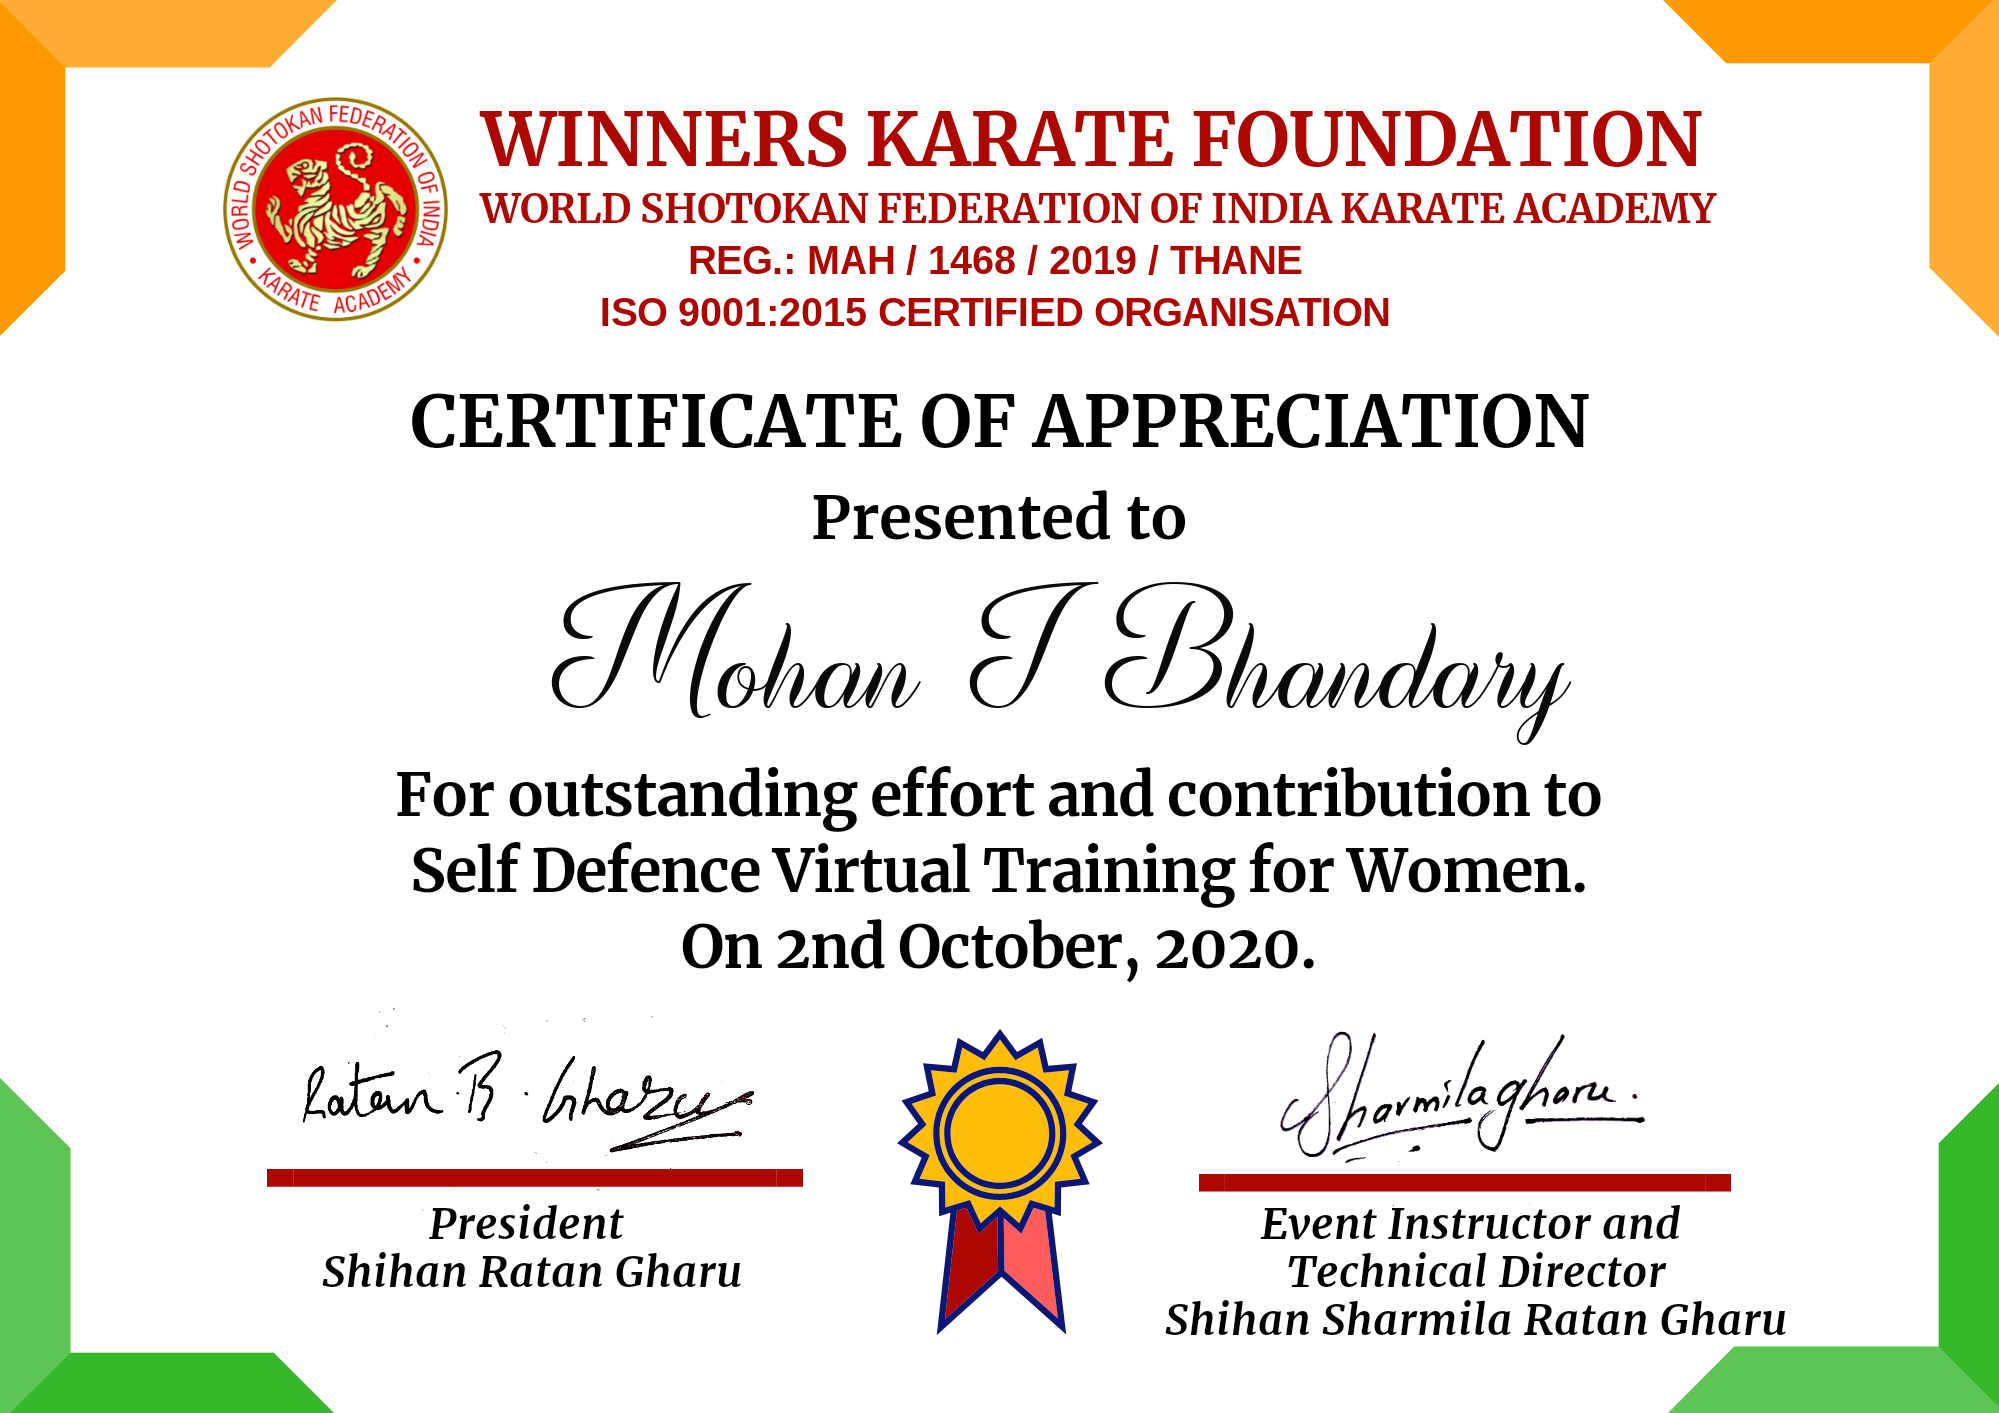
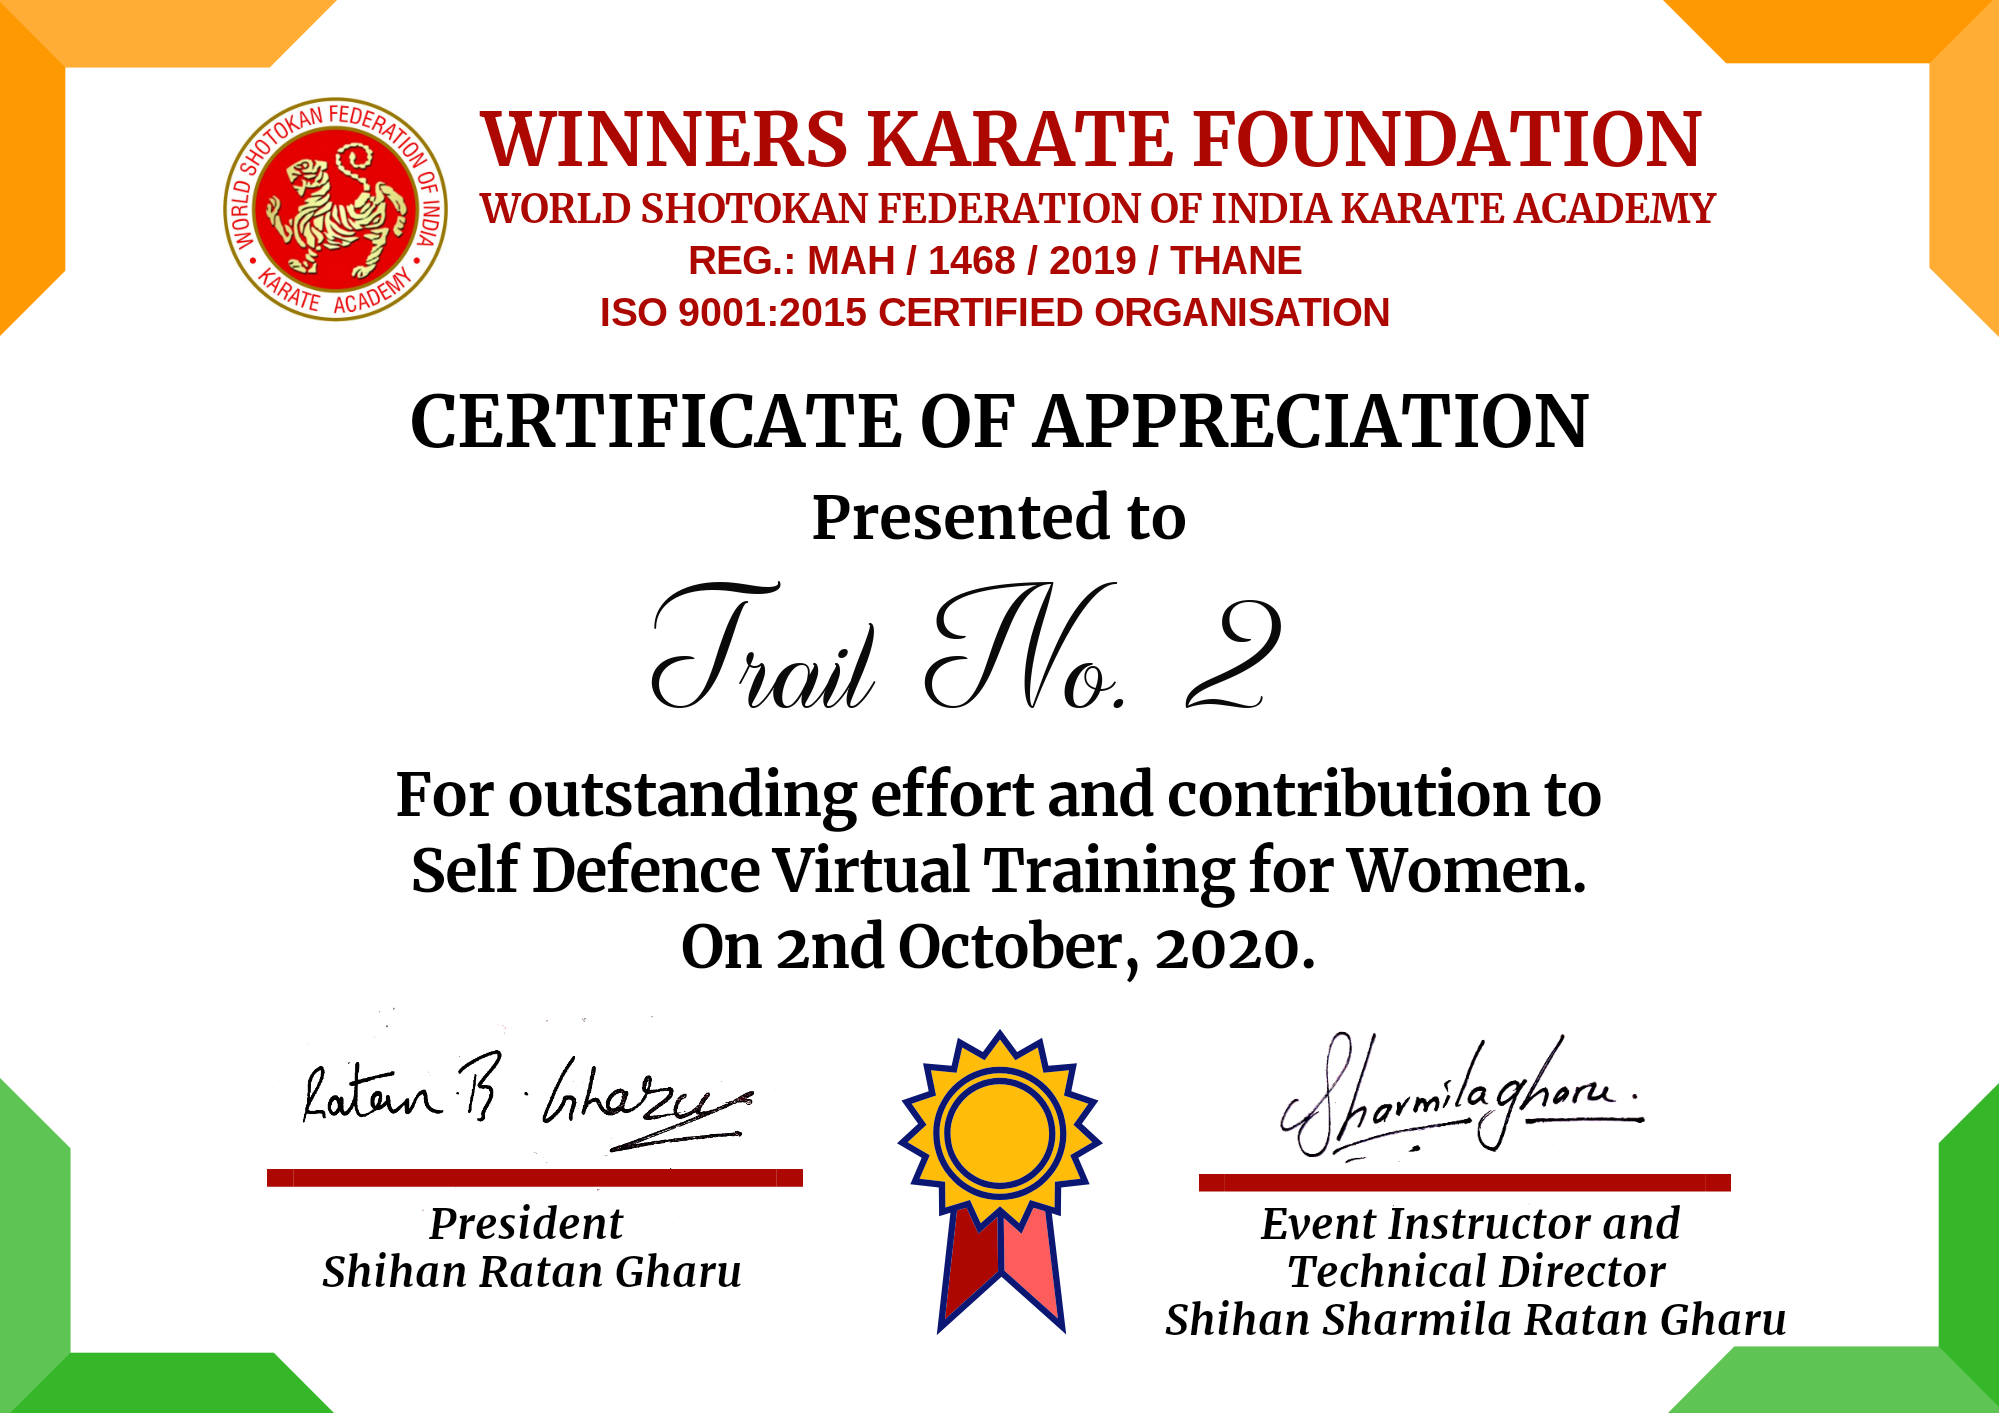
certificates & csv updated

Changed region(s): [[0.2791, 0.4048, 0.8064, 0.5294]]

diff --git a/server.py b/server.py
@@ -9,7 +9,7 @@ def my_home():
 
 #----------------Searching the Participant detail--------------------
 def read_from_csv(data):
-    with open('./static/files/participant_list3.csv', mode='r') as db_list:     ##--------Change the file name accordingly--------##
+    with open('./static/files/participant_list_out.csv', mode='r') as db_list:     ##--------Change the file name accordingly--------##
         reader = csv.reader(db_list)
         for row in reader:  
             if data in row: #checks the email id in the list
